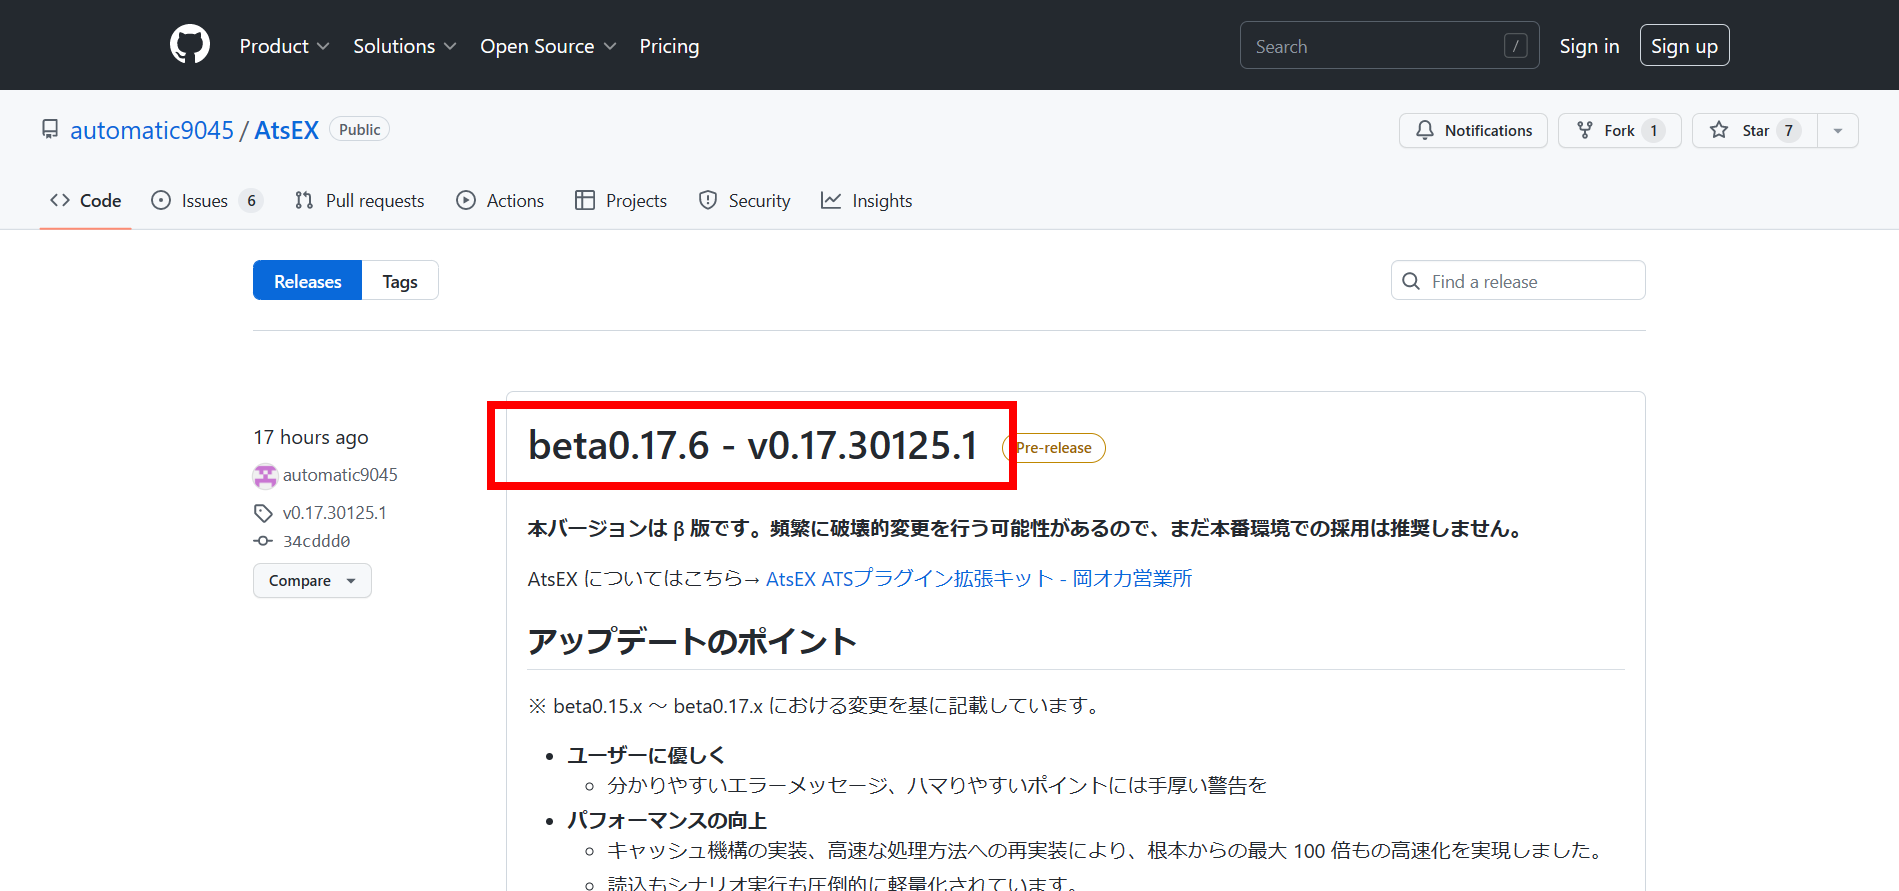
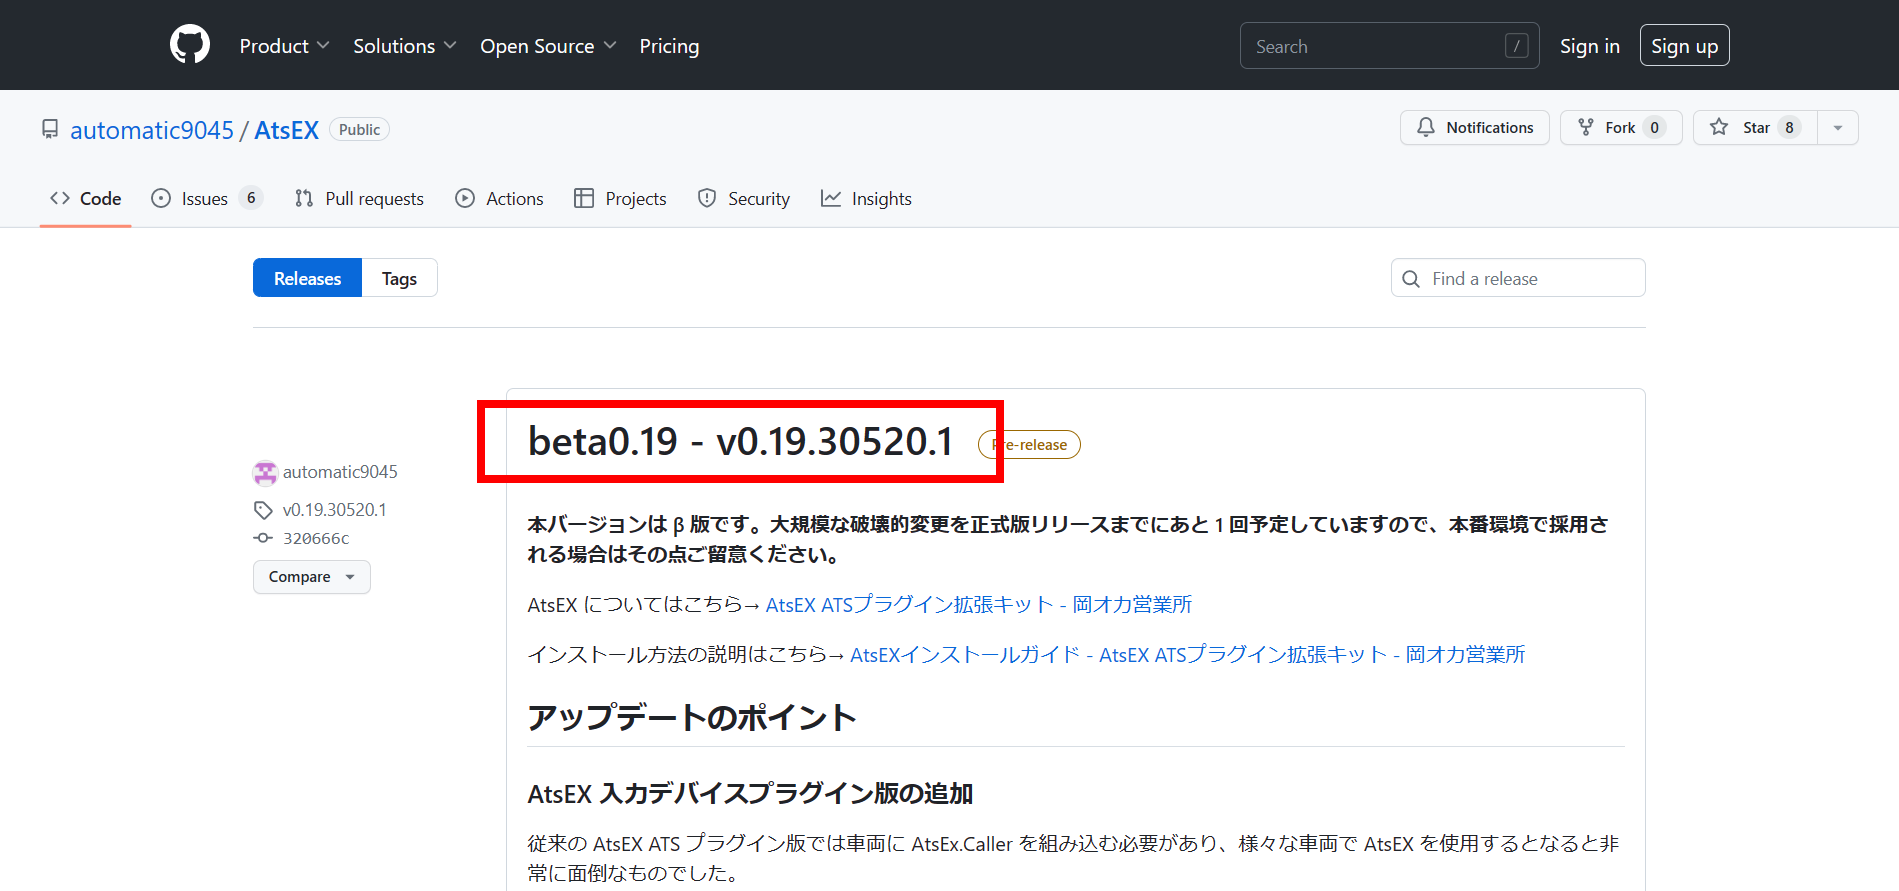
update: [AtsEX]インストールガイドに入力デバイスPI版の場合の説明を追加

diff --git a/contents/bve/AtsEX/docs/user/installation-guide.html b/contents/bve/AtsEX/docs/user/installation-guide.html
@@ -46,7 +46,7 @@
             <a href="https://github.com/automatic9045/AtsEX/releases">Releases・automatic9045/AtsEX</a>
         </p>
         <p>
-            上のリンク（別サイト）にアクセスし、最も上に表示されている最新のリリースのタイトル（2023/01/26時点では「beta0.17.5 - v0.17.30125.1」）をクリックします。
+            上のリンク（別サイト）にアクセスし、最も上に表示されている最新のリリースのタイトル（2023/05/22時点では「beta0.19 - v0.19.30520.1」）をクリックします。
         </p>
         <p>
             <img src="/contents/bve/AtsEX/docs/user/installation-guide_1-1.png" />
@@ -55,11 +55,37 @@
         <h3>1-2. アップデート内容を確認する</h3>
         <p>
             リリースページには、そのアップデートで追加された機能や破壊的変更（プラグインのコードを書き換えなければならない可能性がある変更）について記載されています。
-            必要に応じて詳細を読み、その後ページ最下部の「Assets」から「AtsEx_[バージョン名].7z」をダウンロードしてください。
+            必要に応じて詳細を読みます。
+        </p>
+
+        <h3>1-3. ダウンロード</h3>
+        <p>
+            ページ最下部の「Assets」からAtsEX本体をダウンロードします。<br />
+            β0.19より、従来のATSプラグイン版に加え入力デバイスプラグイン版を公開しました。インストールにかかる手間が圧倒的に違うため、<strong>特に理由がなければ入力デバイスプラグイン版をおすすめします。</strong>
+        </p>
+        <p>
+            入力デバイスプラグイン版は「AtsEx_[バージョン名]_AsInputDevice.7z」、ATSプラグイン版は「AtsEx_[バージョン名]_AsAtsPlugin.7z」になります。
         </p>
         <p>
             <img src="/contents/bve/AtsEX/docs/user/installation-guide_1-2.png" />
         </p>
+        <div class="note note-info">
+            <h4>ATSプラグイン版が必要になるケース</h4>
+            <p>
+                入力デバイスプラグイン版をインストールできないケースが存在します。以下はその例です（ご自身の環境が該当していても、場合によっては入力デバイスプラグイン版をインストールできることもあります）。
+            </p>
+            <ul>
+                <li>
+                    BVE本体をProgram Filesフォルダ内にインストールしており、かつPCの管理者権限がない場合
+                    <ul>
+                        <li>お子様がご両親のPCを借りてBVEをプレイしている場合はこれに該当することがあります。</li>
+                    </ul>
+                </li>
+                <li>
+                    LinuxやMacなどWindows以外のOSのPCで、Wineを介してBVEをプレイしている場合
+                </li>
+            </ul>
+        </div>
 
         <p>
             また、プラグインを開発される場合は「AtsEx_[バージョン名]_SDK.7z」も併せてダウンロードすることをお勧めします。
@@ -90,7 +116,7 @@
 
         <h3>2-2. 解凍ソフトを用意する</h3>
         <p>
-            AtsEXのパッケージは7z形式で圧縮されていますが、Windowsには7z形式の圧縮ファイルの解凍機能は搭載されていません。そのため、別途解凍ソフトをインストールして頂く必要があります。
+            AtsEXのパッケージは7z形式で圧縮されていますが、Windowsには7z形式の圧縮ファイルの解凍機能は搭載されていません。そのため、別途解凍ソフトをインストールしていただく必要があります。
             特にこだわりがなければ<a href="https://sevenzip.osdn.jp/">7-Zip</a>をお勧めしています。
         </p>
 
@@ -100,13 +126,14 @@
             この手順を飛ばしたままパッケージを解凍してしまうと、不可解なエラーの原因となる場合があります。
         </div>
         <p>
-            パッケージ（AtsEx_[バージョン名].7z）を解凍します。
-            7-Zipをお使いの場合は、右クリック→[7-Zip]→[AtsEx_[バージョン名]に解凍]を選択します。
+            パッケージ（AtsEx_[バージョン名]_[起動方式].7z）を解凍します。
+            7-Zipをお使いの場合は、右クリック→[7-Zip]→[AtsEx_[バージョン名]_[起動方式]に解凍]を選択します。
         </p>
 
         <h2>3. パッケージを配置する</h2>
         <p>
-            解凍して生成されたフォルダを開き、中にあるScenariosフォルダを所定の位置に移動します。既定では <code>ドキュメント\BveTs\Scenarios</code> になります。
+            解凍して生成されたフォルダを開き、中にあるScenariosフォルダ、Input Devicesフォルダ（入力デバイスプラグイン版の場合のみ）を所定の位置に移動します。<br />
+            既定ではScenariosフォルダは <code>ドキュメント\BveTs\Scenarios</code>、Input Devicesフォルダは <code>Program Files (x86)\mackoy\BveTs5\Input Devices</code> などになります。
         </p>
 
         <h2>4. 試しにサンプルシナリオを開く</h2>
